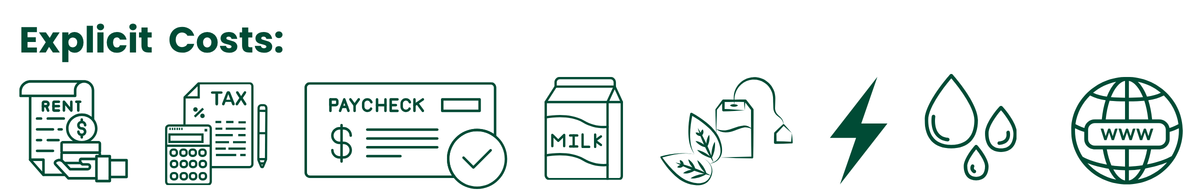
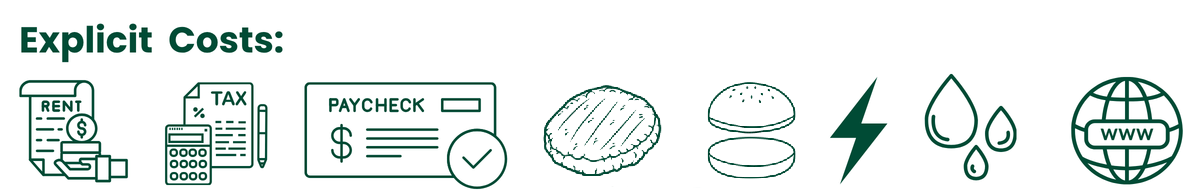
ch08: switch running example from boba tea shop to Sam's burger shop (match ch07)

Changed region(s): [[0.4565, 0.3947, 0.6695, 0.9737], [0.4565, 0.3947, 0.5173, 0.4211]]

diff --git a/econ2316/ch08-costs-of-production/index.html b/econ2316/ch08-costs-of-production/index.html
@@ -179,16 +179,16 @@
 <section id="costs-restaurant-proposal">
   <h2><i class="fa-solid fa-utensils" style="color: var(--accent-color);"></i> Setup &mdash; A Year-One Proposal</h2>
   <p style="font-size: 13pt; line-height: 1.5; margin: 0 0 12px;">
-    Suppose you&rsquo;re considering opening a <strong>restaurant / boba tea shop</strong>. In the proposal you build, you&rsquo;ve estimated both <strong>costs</strong> and <strong>revenue</strong> for the first year:
+    Suppose you&rsquo;re considering opening a <strong>restaurant / burger shop</strong>. In the proposal you build, you&rsquo;ve estimated both <strong>costs</strong> and <strong>revenue</strong> for the first year:
   </p>
   <div style="display: grid; grid-template-columns: 1fr 1fr; gap: 18px; align-items: center;">
     <div style="text-align: center;">
-      <img alt="Illustrated Boba Tea Shop storefront — small business case study" src="figures/boba_tea_shop.png" style="max-width: 100%; max-height: 360px; object-fit: contain;">
+      <img alt="Illustrated Burger Shop storefront — small business case study" src="figures/burger_shop.png" style="max-width: 100%; max-height: 360px; object-fit: contain;">
     </div>
     <div>
       <div style="background: #ecfdf5; border-radius: 12px; padding: 14px 18px; border: 2px solid var(--success-color);">
         <p style="font-size: 11pt; font-weight: 800; color: var(--success-color); letter-spacing: 2px; text-transform: uppercase; margin: 0 0 4px;"><i class="fa-solid fa-file-invoice-dollar"></i> Proposal</p>
-        <p style="font-size: 13pt; font-weight: 700; margin: 0 0 8px; color: var(--primary-color);">Restaurant &amp; Boba Tea Shop &mdash; Year 1</p>
+        <p style="font-size: 13pt; font-weight: 700; margin: 0 0 8px; color: var(--primary-color);">Restaurant &amp; Burger Shop &mdash; Year 1</p>
         <table style="width: 100%; border-collapse: collapse; font-size: 11.5pt;">
           <tr style="background: #d1fae5;">
             <th style="padding: 5px 8px; text-align: left;">Item</th>
@@ -196,8 +196,8 @@
           </tr>
           <tr><td style="padding: 4px 8px; color: var(--success-color);"><i class="fa-solid fa-cash-register"></i> Revenue (40K orders &times; \$25)</td><td style="padding: 4px 8px; text-align: right; font-weight: 700;">\$1,000,000</td></tr>
           <tr style="background: #fafafa;"><td style="padding: 4px 8px;">&nbsp;&nbsp;Rent (Boston storefront, 12 mo)</td><td style="padding: 4px 8px; text-align: right;">\$120,000</td></tr>
-          <tr><td style="padding: 4px 8px;">&nbsp;&nbsp;Staff wages (4 baristas)</td><td style="padding: 4px 8px; text-align: right;">\$220,000</td></tr>
-          <tr style="background: #fafafa;"><td style="padding: 4px 8px;">&nbsp;&nbsp;Milk, tea leaves, tapioca, cups</td><td style="padding: 4px 8px; text-align: right;">\$280,000</td></tr>
+          <tr><td style="padding: 4px 8px;">&nbsp;&nbsp;Staff wages (4 line cooks)</td><td style="padding: 4px 8px; text-align: right;">\$220,000</td></tr>
+          <tr style="background: #fafafa;"><td style="padding: 4px 8px;">&nbsp;&nbsp;Buns, patties, cheese, potatoes</td><td style="padding: 4px 8px; text-align: right;">\$280,000</td></tr>
           <tr><td style="padding: 4px 8px;">&nbsp;&nbsp;Utilities + internet + POS</td><td style="padding: 4px 8px; text-align: right;">\$48,000</td></tr>
           <tr style="background: #fafafa;"><td style="padding: 4px 8px;">&nbsp;&nbsp;Equipment + insurance + tax</td><td style="padding: 4px 8px; text-align: right;">\$132,000</td></tr>
           <tr style="background: #fee2e2;"><td style="padding: 5px 8px; font-weight: 700; color: var(--danger-color);"><i class="fa-solid fa-wallet"></i> Total explicit costs</td><td style="padding: 5px 8px; text-align: right; font-weight: 700; color: var(--danger-color);">\$800,000</td></tr>
@@ -210,7 +210,7 @@
   <aside class="notes">Hook the case study with a concrete year-1 proposal — \$1M revenue (40K orders × \$25), \$800K of out-of-pocket operating costs, \$200K accounting profit. The numbers are stylized but plausible for a Boston-area shop. The setup tease: "but is it really profitable?" The next three slides reveal that once we add implicit costs, this looks-good \$200K accounting profit may shrink to zero economic profit. Left-panel elasticity context from the 1116 version is dropped — students here already know luxury-good demand effects from Ch 6; we go straight to the proposal table and the cost question.</aside>
 </section>
 
-<!-- ===== NEW — Opportunity costs (explicit + implicit) on boba ===== -->
+<!-- ===== NEW — Opportunity costs (explicit + implicit) on burger ===== -->
 <section id="costs-opportunity-boba">
   <h2><i class="fa-solid fa-scale-balanced" style="color: var(--secondary-color);"></i> Costs That Matter &mdash; Opportunity Costs</h2>
   <div style="display: grid; grid-template-columns: 1fr 1fr; gap: 12px; margin-bottom: 10px;">
@@ -229,19 +229,19 @@
     <p style="font-size: 13pt; margin: 0;"><strong>Economic Costs = <span style="color: var(--success-color);">Explicit</span> + <span style="color: var(--danger-color);">Implicit</span> costs</strong></p>
   </div>
   <div style="border-top: 1px solid #e5e7eb; padding-top: 8px;">
-    <p style="font-size: 13pt; margin: 0 0 6px;"><i class="fa-solid fa-file-lines" style="color: var(--muted-color);"></i> <strong>Start-up:</strong> Restaurant / Boba Tea Shop</p>
+    <p style="font-size: 13pt; margin: 0 0 6px;"><i class="fa-solid fa-file-lines" style="color: var(--muted-color);"></i> <strong>Start-up:</strong> Restaurant / Burger Shop</p>
     <div style="display: grid; grid-template-columns: 0.32fr 1fr; gap: 14px; align-items: center;">
-      <img alt="Illustrated Boba Tea Shop storefront" src="figures/boba_tea_shop.png" style="max-width: 100%; max-height: 200px; object-fit: contain; display: block; margin: 0 auto;">
+      <img alt="Illustrated Burger Shop storefront" src="figures/burger_shop.png" style="max-width: 100%; max-height: 200px; object-fit: contain; display: block; margin: 0 auto;">
       <div style="display: flex; flex-direction: column; gap: 4px;">
-        <img alt="Explicit costs strip: rent, tax, paycheck, milk, tea, electricity, water, internet" src="figures/explicit_cost.png" style="max-width: 100%; max-height: 80px; object-fit: contain; display: block; align-self: flex-start;">
+        <img alt="Explicit costs strip: rent, tax, paycheck, buns, patties, electricity, water, internet" src="figures/explicit_cost.png" style="max-width: 100%; max-height: 80px; object-fit: contain; display: block; align-self: flex-start;">
         <img alt="Implicit costs strip: forgone salary, potential investment earnings" src="figures/implicit_cost.png" style="max-width: 60%; max-height: 105px; object-fit: contain; display: block; align-self: flex-start;">
       </div>
     </div>
   </div>
-  <aside class="notes">Define both cost categories side by side and anchor with the boba tea shop case. Explicit (green icons): rent, taxes, payroll, milk + tea leaves, electricity, water, internet — everything you swipe a card for. Implicit (red icons): owner's forgone salary + investment returns on capital tied up in the business. Both are REAL economic costs even though only the explicit ones show up on a P&amp;L. In our Ch 8 cost-min framework, this means when we write TC = wL + rK, the wage w must include the opportunity cost of the owner's labor, and the rental r must include the opportunity cost of the owner's capital. Otherwise the cost-minimization formally ignores the owner's economic situation. Setup for next slide: compute accounting profit (just netting out explicit costs).</aside>
+  <aside class="notes">Define both cost categories side by side and anchor with the burger shop case. Explicit (green icons): rent, taxes, payroll, buns + patties, electricity, water, internet — everything you swipe a card for. Implicit (red icons): owner's forgone salary + investment returns on capital tied up in the business. Both are REAL economic costs even though only the explicit ones show up on a P&amp;L. In our Ch 8 cost-min framework, this means when we write TC = wL + rK, the wage w must include the opportunity cost of the owner's labor, and the rental r must include the opportunity cost of the owner's capital. Otherwise the cost-minimization formally ignores the owner's economic situation. Setup for next slide: compute accounting profit (just netting out explicit costs).</aside>
 </section>
 
-<!-- ===== NEW — Accounting Profit (boba) ===== -->
+<!-- ===== NEW — Accounting Profit (burger) ===== -->
 <section id="accounting-profit-boba">
   <h2><i class="fa-solid fa-receipt" style="color: var(--success-color);"></i> Accounting Profit</h2>
   <div style="background: #ecfdf5; border-radius: 10px; padding: 12px 18px; border-left: 4px solid var(--success-color); margin-bottom: 12px;">
@@ -253,9 +253,9 @@
     </ul>
   </div>
   <div style="border-top: 1px solid #e5e7eb; padding-top: 10px;">
-    <p style="font-size: 14pt; margin: 0 0 10px;"><i class="fa-solid fa-file-lines" style="color: var(--muted-color);"></i> <strong>Start-up:</strong> Restaurant / Boba Tea Shop</p>
+    <p style="font-size: 14pt; margin: 0 0 10px;"><i class="fa-solid fa-file-lines" style="color: var(--muted-color);"></i> <strong>Start-up:</strong> Restaurant / Burger Shop</p>
     <div style="display: grid; grid-template-columns: 0.4fr 1fr; gap: 16px; align-items: center;">
-      <img alt="Illustrated Boba Tea Shop storefront" src="figures/boba_tea_shop.png" style="max-width: 100%; max-height: 200px; object-fit: contain; display: block; margin: 0 auto;">
+      <img alt="Illustrated Burger Shop storefront" src="figures/burger_shop.png" style="max-width: 100%; max-height: 200px; object-fit: contain; display: block; margin: 0 auto;">
       <div>
         <p style="font-size: 14pt; margin: 0 0 6px;"><strong style="color: var(--success-color);">Explicit Costs: \$800,000</strong></p>
         <img alt="Explicit costs strip" src="figures/explicit_cost.png" style="width: 100%; max-height: 90px; object-fit: contain; display: block;">
@@ -275,7 +275,7 @@
     <div class="fragment fade-up" style="border: 2px dashed #7c3aed; border-radius: 10px; padding: 8px 10px; text-align: center; min-width: 0;">
       <p style="font-size: 22pt; margin: 0; line-height: 1;">&#128161;</p>
       <p style="font-size: 14pt; font-weight: 700; margin: 4px 0 6px;">&pi; = +\$200K</p>
-      <img alt="Boba Tea Shop" src="figures/boba_tea_shop.png" style="max-width: 100%; max-height: 130px; object-fit: contain; display: block; margin: 0 auto;">
+      <img alt="Burger Shop" src="figures/burger_shop.png" style="max-width: 100%; max-height: 130px; object-fit: contain; display: block; margin: 0 auto;">
       <ul style="text-align: left; font-size: 11.5pt; margin: 6px 0 8px; padding-left: 18px; line-height: 1.45;">
         <li>TR = <strong>\$1,200K</strong></li>
         <li>Explicit = \$800K</li>
@@ -287,7 +287,7 @@
     <div class="fragment fade-up" style="border: 2px dashed var(--primary-color); border-radius: 10px; padding: 8px 10px; text-align: center; min-width: 0;">
       <p style="font-size: 11pt; margin: 0; color: var(--danger-color); font-weight: 700;">Opp. cost = \$200K</p>
       <p style="font-size: 14pt; font-weight: 700; margin: 4px 0 6px;">&pi; = \$0</p>
-      <img alt="Boba Tea Shop" src="figures/boba_tea_shop.png" style="max-width: 100%; max-height: 130px; object-fit: contain; display: block; margin: 0 auto;">
+      <img alt="Burger Shop" src="figures/burger_shop.png" style="max-width: 100%; max-height: 130px; object-fit: contain; display: block; margin: 0 auto;">
       <ul style="text-align: left; font-size: 11.5pt; margin: 6px 0 8px; padding-left: 18px; line-height: 1.45;">
         <li>TR = <strong>\$1,000K</strong></li>
         <li>Explicit = \$800K</li>
@@ -299,7 +299,7 @@
     <div class="fragment fade-up" style="border: 2px dashed var(--muted-color); border-radius: 10px; padding: 8px 10px; text-align: center; min-width: 0;">
       <p style="font-size: 22pt; margin: 0; line-height: 1; filter: grayscale(0.4);">&#128564;</p>
       <p style="font-size: 14pt; font-weight: 700; margin: 4px 0 6px;">&pi; = &minus;\$200K</p>
-      <img alt="Boba Tea Shop" src="figures/boba_tea_shop.png" style="max-width: 100%; max-height: 130px; object-fit: contain; display: block; margin: 0 auto; opacity: 0.7;">
+      <img alt="Burger Shop" src="figures/burger_shop.png" style="max-width: 100%; max-height: 130px; object-fit: contain; display: block; margin: 0 auto; opacity: 0.7;">
       <ul style="text-align: left; font-size: 11.5pt; margin: 6px 0 8px; padding-left: 18px; line-height: 1.45;">
         <li>TR = <strong>\$800K</strong></li>
         <li>Explicit = \$800K</li>
@@ -310,7 +310,7 @@
     </div>
   </div>
   <p style="font-size: 11pt; color: var(--muted-color); margin: 8px 0 0; text-align: center; font-style: italic;">Press <strong>SPACE</strong> to reveal each scenario.</p>
-  <aside class="notes">Same boba shop, three revenue scenarios. Same \$800K explicit + \$200K implicit cost structure throughout — only TR varies. (1) TR = \$1.2M → +\$200K economic profit → attractive to new entrants. (2) TR = \$1.0M → zero economic profit (the "normal" case) — owner exactly compensated for time + capital, indifferent between this and the next-best alternative. (3) TR = \$800K → −\$200K economic profit, owner losing \$200K/yr vs alternatives, will exit. This is the bridge from cost theory to market structure: economic profit drives entry / exit, and in long-run equilibrium economic profit is competed to zero. We'll formalize this in Ch 9 (firm supply) and Ch 10 (perfect competition + entry).</aside>
+  <aside class="notes">Same burger shop, three revenue scenarios. Same \$800K explicit + \$200K implicit cost structure throughout — only TR varies. (1) TR = \$1.2M → +\$200K economic profit → attractive to new entrants. (2) TR = \$1.0M → zero economic profit (the "normal" case) — owner exactly compensated for time + capital, indifferent between this and the next-best alternative. (3) TR = \$800K → −\$200K economic profit, owner losing \$200K/yr vs alternatives, will exit. This is the bridge from cost theory to market structure: economic profit drives entry / exit, and in long-run equilibrium economic profit is competed to zero. We'll formalize this in Ch 9 (firm supply) and Ch 10 (perfect competition + entry).</aside>
 </section>
 
 <!-- ===== NEW — Market Dynamics: profits drive entry/exit ===== -->
@@ -1503,9 +1503,9 @@
   <p class="subtitle">the envelope theorem &middot; \(\mu = MC\) &middot; the AC&ndash;MC relationship</p>
 </section>
 
-<!-- ===== Slide 26 — Boba Shop Full Inputs & Outputs Table (ported from ch07) ===== -->
+<!-- ===== Slide 26 — Burger Shop Full Inputs & Outputs Table (ported from ch07) ===== -->
 <section id="boba-sr-ap-full">
-  <h2><i class="fa-solid fa-table-list" style="color: var(--secondary-color);"></i> Boba Shop Full Inputs &amp; Outputs Table</h2>
+  <h2><i class="fa-solid fa-table-list" style="color: var(--secondary-color);"></i> Burger Shop Full Inputs &amp; Outputs Table</h2>
 
   <div style="display: grid; grid-template-columns: 1.15fr 1fr; gap: 16px; align-items: start; margin-top: 8px;">
 
@@ -1617,11 +1617,11 @@
   <div style="background: rgba(196, 123, 90, 0.10); border-left: 4px solid var(--accent-color); border-radius: 6px; padding: 7px 14px; margin-top: 8px;">
     <p style="margin: 0; font-size: 11.5pt; line-height: 1.4;">
       <strong><i class="fa-solid fa-book" style="color: var(--accent-color);"></i> Where this is heading.</strong>
-      To understand <em>marginal</em> cost &mdash; how the firm&rsquo;s total spend reshapes when output ticks up by one unit &mdash; we have to crack open the company&rsquo;s books and break costs apart <strong>at every output level</strong>: how much is locked in <span style="color: var(--secondary-color); font-weight: 700;">capital \(K\)</span> (the fixed slice: rent, equipment lease, insurance) versus how much scales with <span style="color: var(--accent-color); font-weight: 700;">labor \(L\)</span> (the variable slice: wages, materials, utilities). Only with that breakdown can we see what each additional unit of \(Q\) actually costs &mdash; and that&rsquo;s exactly what slides 46&ndash;47 do for the boba shop.
+      To understand <em>marginal</em> cost &mdash; how the firm&rsquo;s total spend reshapes when output ticks up by one unit &mdash; we have to crack open the company&rsquo;s books and break costs apart <strong>at every output level</strong>: how much is locked in <span style="color: var(--secondary-color); font-weight: 700;">capital \(K\)</span> (the fixed slice: rent, equipment lease, insurance) versus how much scales with <span style="color: var(--accent-color); font-weight: 700;">labor \(L\)</span> (the variable slice: wages, materials, utilities). Only with that breakdown can we see what each additional unit of \(Q\) actually costs &mdash; and that&rsquo;s exactly what slides 46&ndash;47 do for the burger shop.
     </p>
   </div>
 
-  <aside class="notes">Bridge slide ported from Ch 7's boba SR sequence and placed as the first content slide of §8.4. Two roles: (1) recap AP/MP and the AP-peak-at-MP=AP identity students need carrying forward; (2) label Wages+Materials = VC and Rent = FC so the cost-function framing on the next slide makes sense. Read across one row: at L=4 workers, total spend is $60+$12+$26 = $98 in costs, output is 120 boba teas, so AC = $98/120 ≈ $0.82 per cup. The §8.4 closed-form Cobb-Douglas cost function comes next; this table lets students see costs as just "sum the columns" before the algebra. AP/MP cross at L=4 where both equal 30 — geometric identity that reappears in §8.5 as MC=AC at AC's minimum. NEW bottom box motivates the next two slides: students will see why we go through the firm's books — to see at EVERY q how much spend is fixed (K) vs variable (L), which is what slides 46-47 lay out for the boba shop in a full FC/VC/TC and MC/AVC/ATC/AFC table.</aside>
+  <aside class="notes">Bridge slide ported from Ch 7's burger SR sequence and placed as the first content slide of §8.4. Two roles: (1) recap AP/MP and the AP-peak-at-MP=AP identity students need carrying forward; (2) label Wages+Materials = VC and Rent = FC so the cost-function framing on the next slide makes sense. Read across one row: at L=4 workers, total spend is $60+$12+$26 = $98 in costs, output is 120 burgers, so AC = $98/120 ≈ $0.82 per burger. The §8.4 closed-form Cobb-Douglas cost function comes next; this table lets students see costs as just "sum the columns" before the algebra. AP/MP cross at L=4 where both equal 30 — geometric identity that reappears in §8.5 as MC=AC at AC's minimum. NEW bottom box motivates the next two slides: students will see why we go through the firm's books — to see at EVERY q how much spend is fixed (K) vs variable (L), which is what slides 46-47 lay out for the burger shop in a full FC/VC/TC and MC/AVC/ATC/AFC table.</aside>
 </section>
 
 <!-- ===== Slide 26 — Production Function to Costs (NEW) ===== -->
@@ -1671,7 +1671,7 @@
     <li class="fragment fade-up" data-fragment-index="3"><strong style="color: #6A4FB6;">Total Cost (TC)</strong>: \(TC = FC + VC\) &mdash; same shape as VC, shifted up by the amount of FC.</li>
   </ul>
 
-  <aside class="notes">Bridge slide tying the labor table from §8.4's boba example to the canonical cost-curves diagram. Same shop, same 7 rows of L&rarr;Q&rarr;costs; the chart on the right plots FC, VC, TC as a function of OUTPUT (Q) instead of labor. Three teaching points: (1) FC is a horizontal line because rent doesn't change with output; (2) VC rises faster-than-linearly as Q grows because of diminishing marginal returns to labor — each extra Q-unit requires disproportionately more labor; (3) TC mirrors VC's shape, shifted up by FC. Next slide derives MC, AVC, ATC, AFC from this same data.</aside>
+  <aside class="notes">Bridge slide tying the labor table from §8.4's burger example to the canonical cost-curves diagram. Same shop, same 7 rows of L&rarr;Q&rarr;costs; the chart on the right plots FC, VC, TC as a function of OUTPUT (Q) instead of labor. Three teaching points: (1) FC is a horizontal line because rent doesn't change with output; (2) VC rises faster-than-linearly as Q grows because of diminishing marginal returns to labor — each extra Q-unit requires disproportionately more labor; (3) TC mirrors VC's shape, shifted up by FC. Next slide derives MC, AVC, ATC, AFC from this same data.</aside>
 </section>
 
 <!-- ===== Slide 27 — Costs That Matter: MC, AVC, ATC, AFC (NEW) ===== -->

diff --git a/econ2316/ch08-costs-of-production/presentation.html b/econ2316/ch08-costs-of-production/presentation.html
@@ -179,16 +179,16 @@
 <section id="costs-restaurant-proposal">
   <h2><i class="fa-solid fa-utensils" style="color: var(--accent-color);"></i> Setup &mdash; A Year-One Proposal</h2>
   <p style="font-size: 13pt; line-height: 1.5; margin: 0 0 12px;">
-    Suppose you&rsquo;re considering opening a <strong>restaurant / boba tea shop</strong>. In the proposal you build, you&rsquo;ve estimated both <strong>costs</strong> and <strong>revenue</strong> for the first year:
+    Suppose you&rsquo;re considering opening a <strong>restaurant / burger shop</strong>. In the proposal you build, you&rsquo;ve estimated both <strong>costs</strong> and <strong>revenue</strong> for the first year:
   </p>
   <div style="display: grid; grid-template-columns: 1fr 1fr; gap: 18px; align-items: center;">
     <div style="text-align: center;">
-      <img alt="Illustrated Boba Tea Shop storefront — small business case study" src="figures/boba_tea_shop.png" style="max-width: 100%; max-height: 360px; object-fit: contain;">
+      <img alt="Illustrated Burger Shop storefront — small business case study" src="figures/burger_shop.png" style="max-width: 100%; max-height: 360px; object-fit: contain;">
     </div>
     <div>
       <div style="background: #ecfdf5; border-radius: 12px; padding: 14px 18px; border: 2px solid var(--success-color);">
         <p style="font-size: 11pt; font-weight: 800; color: var(--success-color); letter-spacing: 2px; text-transform: uppercase; margin: 0 0 4px;"><i class="fa-solid fa-file-invoice-dollar"></i> Proposal</p>
-        <p style="font-size: 13pt; font-weight: 700; margin: 0 0 8px; color: var(--primary-color);">Restaurant &amp; Boba Tea Shop &mdash; Year 1</p>
+        <p style="font-size: 13pt; font-weight: 700; margin: 0 0 8px; color: var(--primary-color);">Restaurant &amp; Burger Shop &mdash; Year 1</p>
         <table style="width: 100%; border-collapse: collapse; font-size: 11.5pt;">
           <tr style="background: #d1fae5;">
             <th style="padding: 5px 8px; text-align: left;">Item</th>
@@ -196,8 +196,8 @@
           </tr>
           <tr><td style="padding: 4px 8px; color: var(--success-color);"><i class="fa-solid fa-cash-register"></i> Revenue (40K orders &times; \$25)</td><td style="padding: 4px 8px; text-align: right; font-weight: 700;">\$1,000,000</td></tr>
           <tr style="background: #fafafa;"><td style="padding: 4px 8px;">&nbsp;&nbsp;Rent (Boston storefront, 12 mo)</td><td style="padding: 4px 8px; text-align: right;">\$120,000</td></tr>
-          <tr><td style="padding: 4px 8px;">&nbsp;&nbsp;Staff wages (4 baristas)</td><td style="padding: 4px 8px; text-align: right;">\$220,000</td></tr>
-          <tr style="background: #fafafa;"><td style="padding: 4px 8px;">&nbsp;&nbsp;Milk, tea leaves, tapioca, cups</td><td style="padding: 4px 8px; text-align: right;">\$280,000</td></tr>
+          <tr><td style="padding: 4px 8px;">&nbsp;&nbsp;Staff wages (4 line cooks)</td><td style="padding: 4px 8px; text-align: right;">\$220,000</td></tr>
+          <tr style="background: #fafafa;"><td style="padding: 4px 8px;">&nbsp;&nbsp;Buns, patties, cheese, potatoes</td><td style="padding: 4px 8px; text-align: right;">\$280,000</td></tr>
           <tr><td style="padding: 4px 8px;">&nbsp;&nbsp;Utilities + internet + POS</td><td style="padding: 4px 8px; text-align: right;">\$48,000</td></tr>
           <tr style="background: #fafafa;"><td style="padding: 4px 8px;">&nbsp;&nbsp;Equipment + insurance + tax</td><td style="padding: 4px 8px; text-align: right;">\$132,000</td></tr>
           <tr style="background: #fee2e2;"><td style="padding: 5px 8px; font-weight: 700; color: var(--danger-color);"><i class="fa-solid fa-wallet"></i> Total explicit costs</td><td style="padding: 5px 8px; text-align: right; font-weight: 700; color: var(--danger-color);">\$800,000</td></tr>
@@ -210,7 +210,7 @@
   <aside class="notes">Hook the case study with a concrete year-1 proposal — \$1M revenue (40K orders × \$25), \$800K of out-of-pocket operating costs, \$200K accounting profit. The numbers are stylized but plausible for a Boston-area shop. The setup tease: "but is it really profitable?" The next three slides reveal that once we add implicit costs, this looks-good \$200K accounting profit may shrink to zero economic profit. Left-panel elasticity context from the 1116 version is dropped — students here already know luxury-good demand effects from Ch 6; we go straight to the proposal table and the cost question.</aside>
 </section>
 
-<!-- ===== NEW — Opportunity costs (explicit + implicit) on boba ===== -->
+<!-- ===== NEW — Opportunity costs (explicit + implicit) on burger ===== -->
 <section id="costs-opportunity-boba">
   <h2><i class="fa-solid fa-scale-balanced" style="color: var(--secondary-color);"></i> Costs That Matter &mdash; Opportunity Costs</h2>
   <div style="display: grid; grid-template-columns: 1fr 1fr; gap: 12px; margin-bottom: 10px;">
@@ -229,19 +229,19 @@
     <p style="font-size: 13pt; margin: 0;"><strong>Economic Costs = <span style="color: var(--success-color);">Explicit</span> + <span style="color: var(--danger-color);">Implicit</span> costs</strong></p>
   </div>
   <div style="border-top: 1px solid #e5e7eb; padding-top: 8px;">
-    <p style="font-size: 13pt; margin: 0 0 6px;"><i class="fa-solid fa-file-lines" style="color: var(--muted-color);"></i> <strong>Start-up:</strong> Restaurant / Boba Tea Shop</p>
+    <p style="font-size: 13pt; margin: 0 0 6px;"><i class="fa-solid fa-file-lines" style="color: var(--muted-color);"></i> <strong>Start-up:</strong> Restaurant / Burger Shop</p>
     <div style="display: grid; grid-template-columns: 0.32fr 1fr; gap: 14px; align-items: center;">
-      <img alt="Illustrated Boba Tea Shop storefront" src="figures/boba_tea_shop.png" style="max-width: 100%; max-height: 200px; object-fit: contain; display: block; margin: 0 auto;">
+      <img alt="Illustrated Burger Shop storefront" src="figures/burger_shop.png" style="max-width: 100%; max-height: 200px; object-fit: contain; display: block; margin: 0 auto;">
       <div style="display: flex; flex-direction: column; gap: 4px;">
-        <img alt="Explicit costs strip: rent, tax, paycheck, milk, tea, electricity, water, internet" src="figures/explicit_cost.png" style="max-width: 100%; max-height: 80px; object-fit: contain; display: block; align-self: flex-start;">
+        <img alt="Explicit costs strip: rent, tax, paycheck, buns, patties, electricity, water, internet" src="figures/explicit_cost.png" style="max-width: 100%; max-height: 80px; object-fit: contain; display: block; align-self: flex-start;">
         <img alt="Implicit costs strip: forgone salary, potential investment earnings" src="figures/implicit_cost.png" style="max-width: 60%; max-height: 105px; object-fit: contain; display: block; align-self: flex-start;">
       </div>
     </div>
   </div>
-  <aside class="notes">Define both cost categories side by side and anchor with the boba tea shop case. Explicit (green icons): rent, taxes, payroll, milk + tea leaves, electricity, water, internet — everything you swipe a card for. Implicit (red icons): owner's forgone salary + investment returns on capital tied up in the business. Both are REAL economic costs even though only the explicit ones show up on a P&amp;L. In our Ch 8 cost-min framework, this means when we write TC = wL + rK, the wage w must include the opportunity cost of the owner's labor, and the rental r must include the opportunity cost of the owner's capital. Otherwise the cost-minimization formally ignores the owner's economic situation. Setup for next slide: compute accounting profit (just netting out explicit costs).</aside>
+  <aside class="notes">Define both cost categories side by side and anchor with the burger shop case. Explicit (green icons): rent, taxes, payroll, buns + patties, electricity, water, internet — everything you swipe a card for. Implicit (red icons): owner's forgone salary + investment returns on capital tied up in the business. Both are REAL economic costs even though only the explicit ones show up on a P&amp;L. In our Ch 8 cost-min framework, this means when we write TC = wL + rK, the wage w must include the opportunity cost of the owner's labor, and the rental r must include the opportunity cost of the owner's capital. Otherwise the cost-minimization formally ignores the owner's economic situation. Setup for next slide: compute accounting profit (just netting out explicit costs).</aside>
 </section>
 
-<!-- ===== NEW — Accounting Profit (boba) ===== -->
+<!-- ===== NEW — Accounting Profit (burger) ===== -->
 <section id="accounting-profit-boba">
   <h2><i class="fa-solid fa-receipt" style="color: var(--success-color);"></i> Accounting Profit</h2>
   <div style="background: #ecfdf5; border-radius: 10px; padding: 12px 18px; border-left: 4px solid var(--success-color); margin-bottom: 12px;">
@@ -253,9 +253,9 @@
     </ul>
   </div>
   <div style="border-top: 1px solid #e5e7eb; padding-top: 10px;">
-    <p style="font-size: 14pt; margin: 0 0 10px;"><i class="fa-solid fa-file-lines" style="color: var(--muted-color);"></i> <strong>Start-up:</strong> Restaurant / Boba Tea Shop</p>
+    <p style="font-size: 14pt; margin: 0 0 10px;"><i class="fa-solid fa-file-lines" style="color: var(--muted-color);"></i> <strong>Start-up:</strong> Restaurant / Burger Shop</p>
     <div style="display: grid; grid-template-columns: 0.4fr 1fr; gap: 16px; align-items: center;">
-      <img alt="Illustrated Boba Tea Shop storefront" src="figures/boba_tea_shop.png" style="max-width: 100%; max-height: 200px; object-fit: contain; display: block; margin: 0 auto;">
+      <img alt="Illustrated Burger Shop storefront" src="figures/burger_shop.png" style="max-width: 100%; max-height: 200px; object-fit: contain; display: block; margin: 0 auto;">
       <div>
         <p style="font-size: 14pt; margin: 0 0 6px;"><strong style="color: var(--success-color);">Explicit Costs: \$800,000</strong></p>
         <img alt="Explicit costs strip" src="figures/explicit_cost.png" style="width: 100%; max-height: 90px; object-fit: contain; display: block;">
@@ -275,7 +275,7 @@
     <div class="fragment fade-up" style="border: 2px dashed #7c3aed; border-radius: 10px; padding: 8px 10px; text-align: center; min-width: 0;">
       <p style="font-size: 22pt; margin: 0; line-height: 1;">&#128161;</p>
       <p style="font-size: 14pt; font-weight: 700; margin: 4px 0 6px;">&pi; = +\$200K</p>
-      <img alt="Boba Tea Shop" src="figures/boba_tea_shop.png" style="max-width: 100%; max-height: 130px; object-fit: contain; display: block; margin: 0 auto;">
+      <img alt="Burger Shop" src="figures/burger_shop.png" style="max-width: 100%; max-height: 130px; object-fit: contain; display: block; margin: 0 auto;">
       <ul style="text-align: left; font-size: 11.5pt; margin: 6px 0 8px; padding-left: 18px; line-height: 1.45;">
         <li>TR = <strong>\$1,200K</strong></li>
         <li>Explicit = \$800K</li>
@@ -287,7 +287,7 @@
     <div class="fragment fade-up" style="border: 2px dashed var(--primary-color); border-radius: 10px; padding: 8px 10px; text-align: center; min-width: 0;">
       <p style="font-size: 11pt; margin: 0; color: var(--danger-color); font-weight: 700;">Opp. cost = \$200K</p>
       <p style="font-size: 14pt; font-weight: 700; margin: 4px 0 6px;">&pi; = \$0</p>
-      <img alt="Boba Tea Shop" src="figures/boba_tea_shop.png" style="max-width: 100%; max-height: 130px; object-fit: contain; display: block; margin: 0 auto;">
+      <img alt="Burger Shop" src="figures/burger_shop.png" style="max-width: 100%; max-height: 130px; object-fit: contain; display: block; margin: 0 auto;">
       <ul style="text-align: left; font-size: 11.5pt; margin: 6px 0 8px; padding-left: 18px; line-height: 1.45;">
         <li>TR = <strong>\$1,000K</strong></li>
         <li>Explicit = \$800K</li>
@@ -299,7 +299,7 @@
     <div class="fragment fade-up" style="border: 2px dashed var(--muted-color); border-radius: 10px; padding: 8px 10px; text-align: center; min-width: 0;">
       <p style="font-size: 22pt; margin: 0; line-height: 1; filter: grayscale(0.4);">&#128564;</p>
       <p style="font-size: 14pt; font-weight: 700; margin: 4px 0 6px;">&pi; = &minus;\$200K</p>
-      <img alt="Boba Tea Shop" src="figures/boba_tea_shop.png" style="max-width: 100%; max-height: 130px; object-fit: contain; display: block; margin: 0 auto; opacity: 0.7;">
+      <img alt="Burger Shop" src="figures/burger_shop.png" style="max-width: 100%; max-height: 130px; object-fit: contain; display: block; margin: 0 auto; opacity: 0.7;">
       <ul style="text-align: left; font-size: 11.5pt; margin: 6px 0 8px; padding-left: 18px; line-height: 1.45;">
         <li>TR = <strong>\$800K</strong></li>
         <li>Explicit = \$800K</li>
@@ -310,7 +310,7 @@
     </div>
   </div>
   <p style="font-size: 11pt; color: var(--muted-color); margin: 8px 0 0; text-align: center; font-style: italic;">Press <strong>SPACE</strong> to reveal each scenario.</p>
-  <aside class="notes">Same boba shop, three revenue scenarios. Same \$800K explicit + \$200K implicit cost structure throughout — only TR varies. (1) TR = \$1.2M → +\$200K economic profit → attractive to new entrants. (2) TR = \$1.0M → zero economic profit (the "normal" case) — owner exactly compensated for time + capital, indifferent between this and the next-best alternative. (3) TR = \$800K → −\$200K economic profit, owner losing \$200K/yr vs alternatives, will exit. This is the bridge from cost theory to market structure: economic profit drives entry / exit, and in long-run equilibrium economic profit is competed to zero. We'll formalize this in Ch 9 (firm supply) and Ch 10 (perfect competition + entry).</aside>
+  <aside class="notes">Same burger shop, three revenue scenarios. Same \$800K explicit + \$200K implicit cost structure throughout — only TR varies. (1) TR = \$1.2M → +\$200K economic profit → attractive to new entrants. (2) TR = \$1.0M → zero economic profit (the "normal" case) — owner exactly compensated for time + capital, indifferent between this and the next-best alternative. (3) TR = \$800K → −\$200K economic profit, owner losing \$200K/yr vs alternatives, will exit. This is the bridge from cost theory to market structure: economic profit drives entry / exit, and in long-run equilibrium economic profit is competed to zero. We'll formalize this in Ch 9 (firm supply) and Ch 10 (perfect competition + entry).</aside>
 </section>
 
 <!-- ===== NEW — Market Dynamics: profits drive entry/exit ===== -->
@@ -1503,9 +1503,9 @@
   <p class="subtitle">the envelope theorem &middot; \(\mu = MC\) &middot; the AC&ndash;MC relationship</p>
 </section>
 
-<!-- ===== Slide 26 — Boba Shop Full Inputs & Outputs Table (ported from ch07) ===== -->
+<!-- ===== Slide 26 — Burger Shop Full Inputs & Outputs Table (ported from ch07) ===== -->
 <section id="boba-sr-ap-full">
-  <h2><i class="fa-solid fa-table-list" style="color: var(--secondary-color);"></i> Boba Shop Full Inputs &amp; Outputs Table</h2>
+  <h2><i class="fa-solid fa-table-list" style="color: var(--secondary-color);"></i> Burger Shop Full Inputs &amp; Outputs Table</h2>
 
   <div style="display: grid; grid-template-columns: 1.15fr 1fr; gap: 16px; align-items: start; margin-top: 8px;">
 
@@ -1617,11 +1617,11 @@
   <div style="background: rgba(196, 123, 90, 0.10); border-left: 4px solid var(--accent-color); border-radius: 6px; padding: 7px 14px; margin-top: 8px;">
     <p style="margin: 0; font-size: 11.5pt; line-height: 1.4;">
       <strong><i class="fa-solid fa-book" style="color: var(--accent-color);"></i> Where this is heading.</strong>
-      To understand <em>marginal</em> cost &mdash; how the firm&rsquo;s total spend reshapes when output ticks up by one unit &mdash; we have to crack open the company&rsquo;s books and break costs apart <strong>at every output level</strong>: how much is locked in <span style="color: var(--secondary-color); font-weight: 700;">capital \(K\)</span> (the fixed slice: rent, equipment lease, insurance) versus how much scales with <span style="color: var(--accent-color); font-weight: 700;">labor \(L\)</span> (the variable slice: wages, materials, utilities). Only with that breakdown can we see what each additional unit of \(Q\) actually costs &mdash; and that&rsquo;s exactly what slides 46&ndash;47 do for the boba shop.
+      To understand <em>marginal</em> cost &mdash; how the firm&rsquo;s total spend reshapes when output ticks up by one unit &mdash; we have to crack open the company&rsquo;s books and break costs apart <strong>at every output level</strong>: how much is locked in <span style="color: var(--secondary-color); font-weight: 700;">capital \(K\)</span> (the fixed slice: rent, equipment lease, insurance) versus how much scales with <span style="color: var(--accent-color); font-weight: 700;">labor \(L\)</span> (the variable slice: wages, materials, utilities). Only with that breakdown can we see what each additional unit of \(Q\) actually costs &mdash; and that&rsquo;s exactly what slides 46&ndash;47 do for the burger shop.
     </p>
   </div>
 
-  <aside class="notes">Bridge slide ported from Ch 7's boba SR sequence and placed as the first content slide of §8.4. Two roles: (1) recap AP/MP and the AP-peak-at-MP=AP identity students need carrying forward; (2) label Wages+Materials = VC and Rent = FC so the cost-function framing on the next slide makes sense. Read across one row: at L=4 workers, total spend is $60+$12+$26 = $98 in costs, output is 120 boba teas, so AC = $98/120 ≈ $0.82 per cup. The §8.4 closed-form Cobb-Douglas cost function comes next; this table lets students see costs as just "sum the columns" before the algebra. AP/MP cross at L=4 where both equal 30 — geometric identity that reappears in §8.5 as MC=AC at AC's minimum. NEW bottom box motivates the next two slides: students will see why we go through the firm's books — to see at EVERY q how much spend is fixed (K) vs variable (L), which is what slides 46-47 lay out for the boba shop in a full FC/VC/TC and MC/AVC/ATC/AFC table.</aside>
+  <aside class="notes">Bridge slide ported from Ch 7's burger SR sequence and placed as the first content slide of §8.4. Two roles: (1) recap AP/MP and the AP-peak-at-MP=AP identity students need carrying forward; (2) label Wages+Materials = VC and Rent = FC so the cost-function framing on the next slide makes sense. Read across one row: at L=4 workers, total spend is $60+$12+$26 = $98 in costs, output is 120 burgers, so AC = $98/120 ≈ $0.82 per burger. The §8.4 closed-form Cobb-Douglas cost function comes next; this table lets students see costs as just "sum the columns" before the algebra. AP/MP cross at L=4 where both equal 30 — geometric identity that reappears in §8.5 as MC=AC at AC's minimum. NEW bottom box motivates the next two slides: students will see why we go through the firm's books — to see at EVERY q how much spend is fixed (K) vs variable (L), which is what slides 46-47 lay out for the burger shop in a full FC/VC/TC and MC/AVC/ATC/AFC table.</aside>
 </section>
 
 <!-- ===== Slide 26 — Production Function to Costs (NEW) ===== -->
@@ -1671,7 +1671,7 @@
     <li class="fragment fade-up" data-fragment-index="3"><strong style="color: #6A4FB6;">Total Cost (TC)</strong>: \(TC = FC + VC\) &mdash; same shape as VC, shifted up by the amount of FC.</li>
   </ul>
 
-  <aside class="notes">Bridge slide tying the labor table from §8.4's boba example to the canonical cost-curves diagram. Same shop, same 7 rows of L&rarr;Q&rarr;costs; the chart on the right plots FC, VC, TC as a function of OUTPUT (Q) instead of labor. Three teaching points: (1) FC is a horizontal line because rent doesn't change with output; (2) VC rises faster-than-linearly as Q grows because of diminishing marginal returns to labor — each extra Q-unit requires disproportionately more labor; (3) TC mirrors VC's shape, shifted up by FC. Next slide derives MC, AVC, ATC, AFC from this same data.</aside>
+  <aside class="notes">Bridge slide tying the labor table from §8.4's burger example to the canonical cost-curves diagram. Same shop, same 7 rows of L&rarr;Q&rarr;costs; the chart on the right plots FC, VC, TC as a function of OUTPUT (Q) instead of labor. Three teaching points: (1) FC is a horizontal line because rent doesn't change with output; (2) VC rises faster-than-linearly as Q grows because of diminishing marginal returns to labor — each extra Q-unit requires disproportionately more labor; (3) TC mirrors VC's shape, shifted up by FC. Next slide derives MC, AVC, ATC, AFC from this same data.</aside>
 </section>
 
 <!-- ===== Slide 27 — Costs That Matter: MC, AVC, ATC, AFC (NEW) ===== -->
